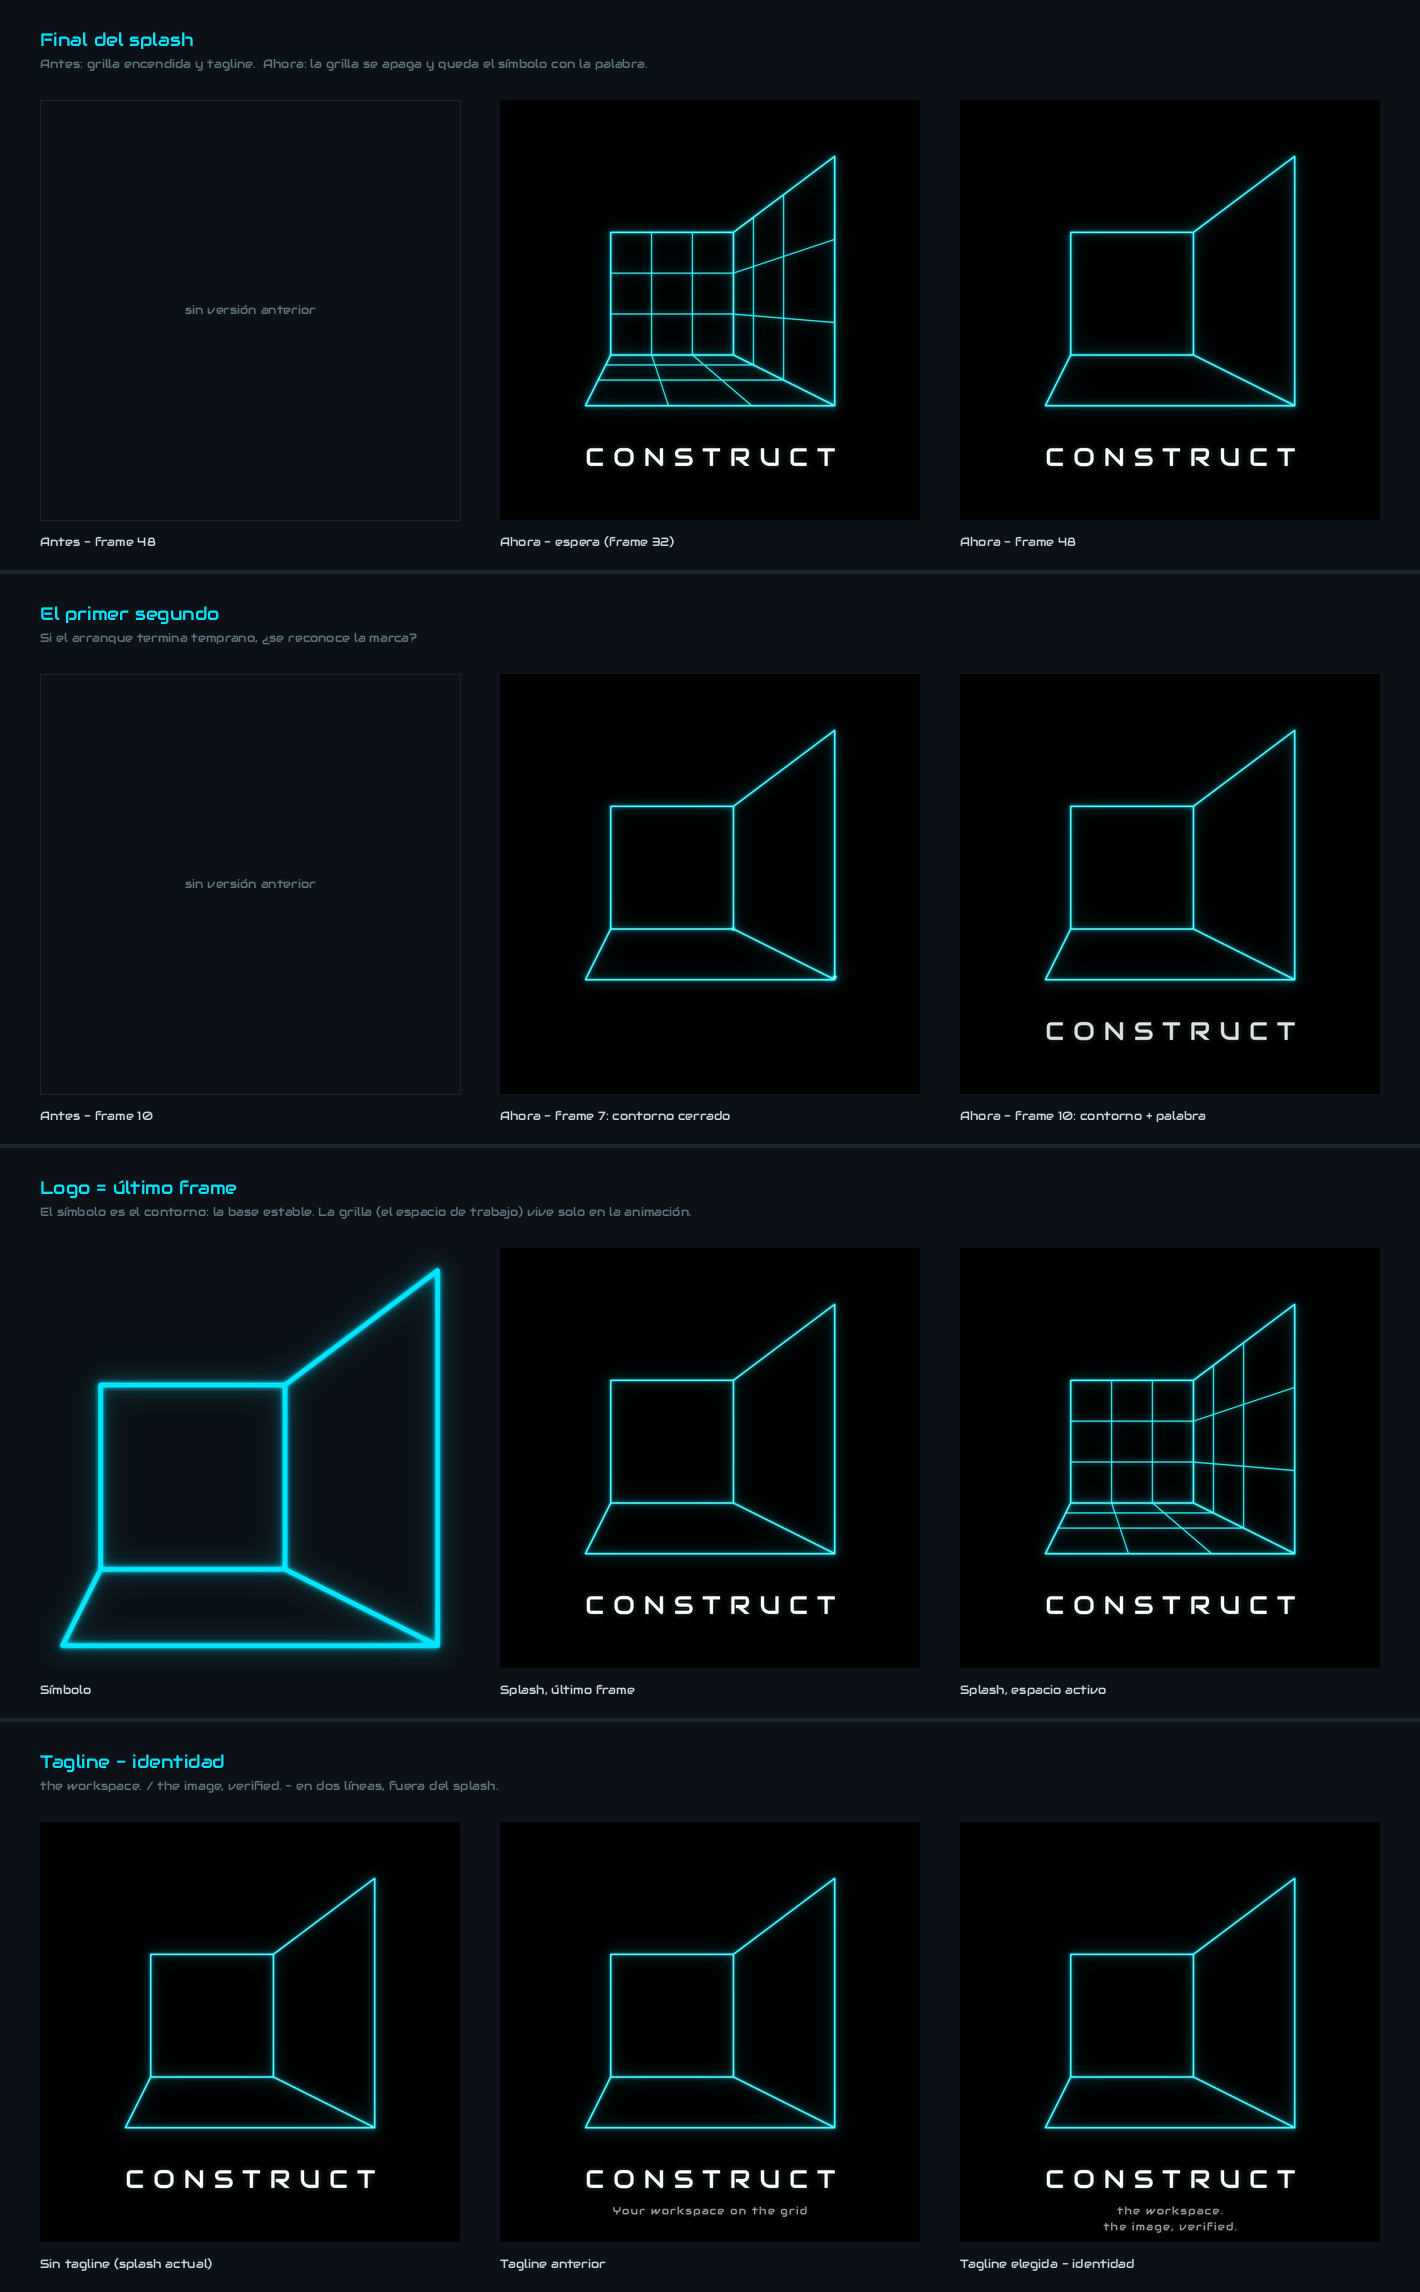
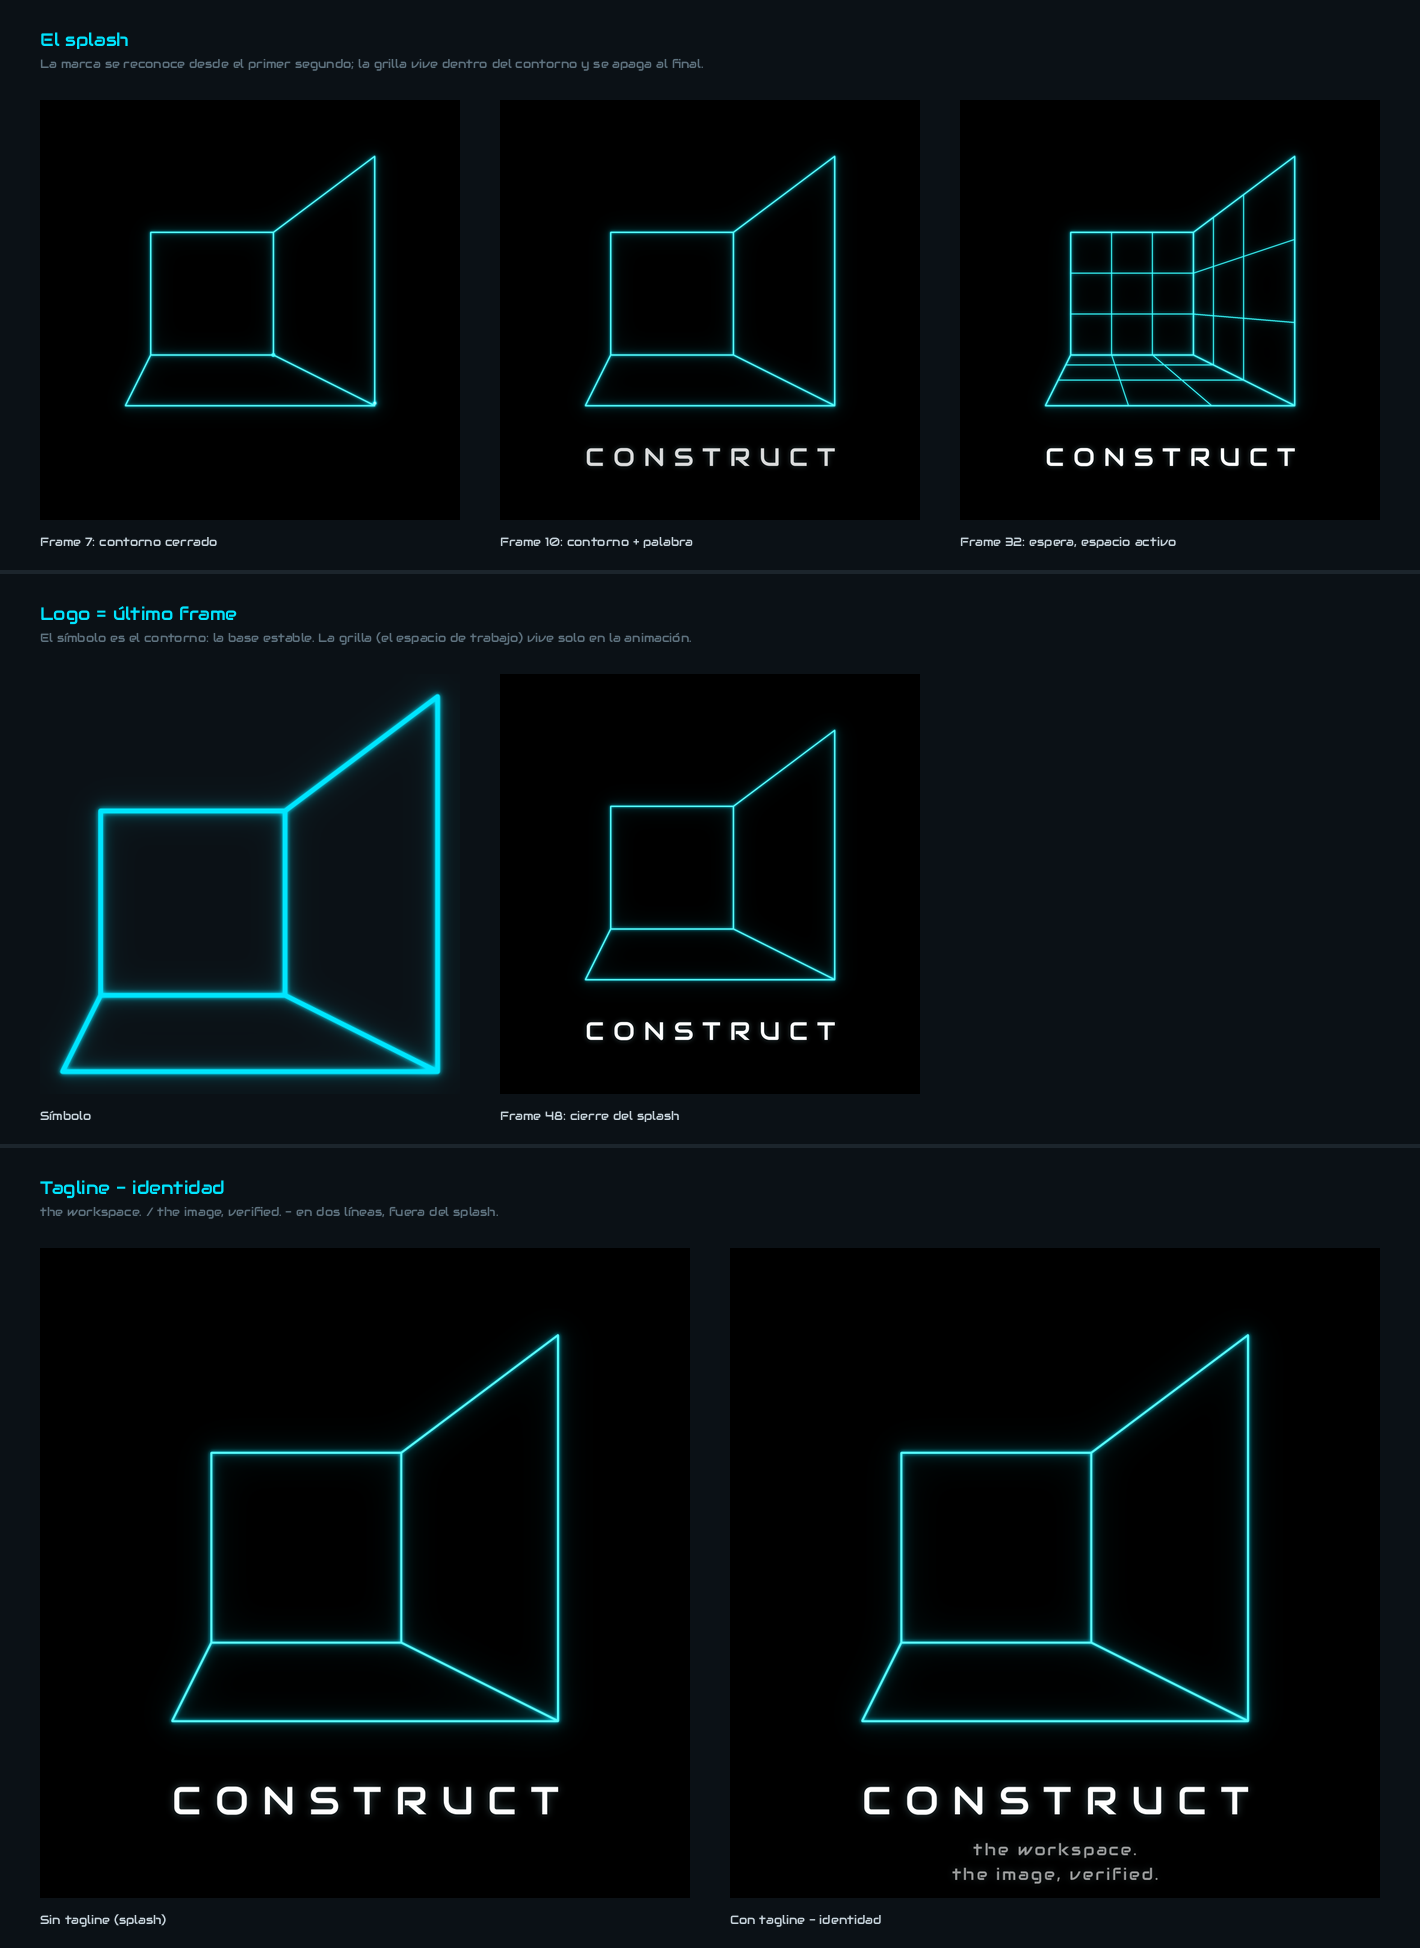
Refactor .gitignore, update README for clarity, and enhance review.py functionality

diff --git a/review.py b/review.py
@@ -4,16 +4,14 @@ import cv2
 from PIL import Image, ImageDraw, ImageFont
 import video
 
-# usage: review.py [frames_dir] [before_dir] [out_dir]
+# usage: review.py [frames_dir] [out_dir]
 # Review sheets for the identity and the boot animation:
-#   comparison.png - before / after (end of the splash, the first second, the logo) and
-#                    selected tagline on the final frame (not part of the splash)
+#   comparison.png - key moments of the splash (first second, waiting, end = logo), the
+#                    logo next to the last frame, and the identity tagline (not in the splash)
 #   sequence.png   - every frame grouped by segment (intro / loop / outro) with the light
 #                    levels of the two layers: outline (base image) and grid (workspace)
-# before_dir is optional: a copy of a previous frames/ (frames_dir layout) to compare with.
 FRAMES = sys.argv[1] if len(sys.argv) > 1 else "frames"
-BEFORE = sys.argv[2] if len(sys.argv) > 2 else ""
-OUT = sys.argv[3] if len(sys.argv) > 3 else "review"
+OUT = sys.argv[2] if len(sys.argv) > 2 else "review"
 os.makedirs(OUT, exist_ok=True)
 
 INK, LINE, MUTED, TEXT, CYAN = "#0B1116", "#1C252C", "#5F7380", "#C9D6DE", "#00E5FF"
@@ -35,34 +33,26 @@ W = pad + cols * (T + pad)
 rows = []
 
 def row(title, sub, items):
-    """items: [(image or None, label)]"""
+    """items: [(image, label)]"""
     r = Image.new("RGB", (W, 100 + T + 50), INK)
     d = ImageDraw.Draw(r)
     caption(d, (pad, 28), title, sub)
     for k, (im, label) in enumerate(items):
         x = pad + k * (T + pad)
-        if im is not None:
-            r.paste(im.resize((T, T), Image.LANCZOS), (x, 100))
-        else:
-            d.rectangle((x, 100, x + T, 100 + T), outline=LINE)
-            d.text((x + T / 2, 100 + T / 2), "sin versión anterior", font=font(12), fill=MUTED, anchor="mm")
+        r.paste(im.resize((T, T), Image.LANCZOS), (x, 100))
         d.text((x, 100 + T + 14), label, font=font(12), fill=TEXT)
     rows.append(r)
 
-has_before = BEFORE and os.path.exists(f"{BEFORE}/construct_48.png")
-b = (lambda i: frame(BEFORE, i)) if has_before else (lambda i: None)
 loop_mid = (segments["loop"][0] + segments["loop"][1]) // 2
-row("Final del splash", "Antes: grilla encendida y tagline.  Ahora: la grilla se apaga y queda el símbolo con la palabra.",
-    [(b(48), "Antes - frame 48"), (frame(FRAMES, loop_mid), f"Ahora - espera (frame {loop_mid})"), (frame(FRAMES, n), f"Ahora - frame {n}")])
-row("El primer segundo", "Si el arranque termina temprano, ¿se reconoce la marca?",
-    [(b(10), "Antes - frame 10"), (frame(FRAMES, 7), "Ahora - frame 7: contorno cerrado"), (frame(FRAMES, 10), "Ahora - frame 10: contorno + palabra")])
-logo = Image.open("logos/construct-neon-512.png").convert("RGB") if os.path.exists("logos/construct-neon-512.png") else None
+row("El splash", "La marca se reconoce desde el primer segundo; la grilla vive dentro del contorno y se apaga al final.",
+    [(frame(FRAMES, 7), "Frame 7: contorno cerrado"), (frame(FRAMES, 10), "Frame 10: contorno + palabra"),
+     (frame(FRAMES, loop_mid), f"Frame {loop_mid}: espera, espacio activo")])
 row("Logo = último frame", "El símbolo es el contorno: la base estable. La grilla (el espacio de trabajo) vive solo en la animación.",
-    [(logo, "Símbolo"), (frame(FRAMES, n), "Splash, último frame"), (frame(FRAMES, loop_mid), "Splash, espacio activo")])
+    [(Image.open("logos/construct-neon-512.png").convert("RGB"), "Símbolo"), (frame(FRAMES, n), f"Frame {n}: cierre del splash")])
 
 # Identity tagline, rendered on the final frame for review only.
-tags = [None, "Your workspace on the grid", "the workspace.\nthe image, verified."]
-notes = ["Sin tagline (splash actual)", "Tagline anterior", "Tagline elegida - identidad"]
+tags = [None, "the workspace.\nthe image, verified."]
+notes = ["Sin tagline (splash)", "Con tagline - identidad"]
 tw = (W - pad * (len(tags) + 1)) // len(tags)
 r = Image.new("RGB", (W, 100 + tw + 50), INK)
 d = ImageDraw.Draw(r)

diff --git a/README.md b/README.md
@@ -22,7 +22,7 @@ El tagline de identidad se presenta en minúsculas y en dos líneas:
 > the workspace.<br>
 > the image, verified.
 
-Primero, el espacio donde trabajás; después, la base verificada que lo sostiene. Se usa en la presentación de la distribución y piezas de identidad. La comparación con la versión anterior está en `review/comparison.png`.
+Primero, el espacio donde trabajás; después, la base verificada que lo sostiene. Se usa en la presentación de la distribución y piezas de identidad. La revisión está en `review/comparison.png`.
 
 ## Requisitos
 
@@ -42,14 +42,14 @@ task deps
 
 | Comando         | Qué hace                                                   |
 |-----------------|------------------------------------------------------------|
-| `task` / `task all` | **Todo**: dependencias, frames, video, sprite y frames de Plymouth comprimidos |
+| `task` / `task all` | **Todo**: dependencias, frames, video, sprite, frames de Plymouth comprimidos, logo y hojas de revisión |
 | `task generate` | Renderiza `frames/construct_01.png` … `construct_48.png`   |
 | `task encode`   | Arma `construct.mp4` (5 s) a partir de los frames          |
 | `task play`     | Reproduce `construct.mp4` en bucle (`q` / `Esc` para salir) |
 | `task sprite`   | Arma `sprite.png`: grilla 8×6 con los 48 frames numerados  |
 | `task plymouth` | PNG transparentes por frame para Plymouth en `plymouth/`, comprimidos con pngquant |
 | `task logo`     | Propuestas de logo en `logos/`: SVG color y mono, PNG de 16 a 512 px y `preview.png` |
-| `task review`   | `review/comparison.png` (antes/después, primer segundo, logo, tagline de identidad) y `review/sequence.png` (frames por tramo y niveles de luz) |
+| `task review`   | `review/comparison.png` (momentos clave del splash, logo junto al último frame, tagline de identidad) y `review/sequence.png` (frames por tramo y niveles de luz) |
 | `task compress` | Vuelve a pasar pngquant sobre `plymouth/*.png`, reemplazando los archivos |
 | `task clean`    | Borra `frames/`, `construct.mp4`, `sprite.png`, `plymouth/` y `logos/` |
 
